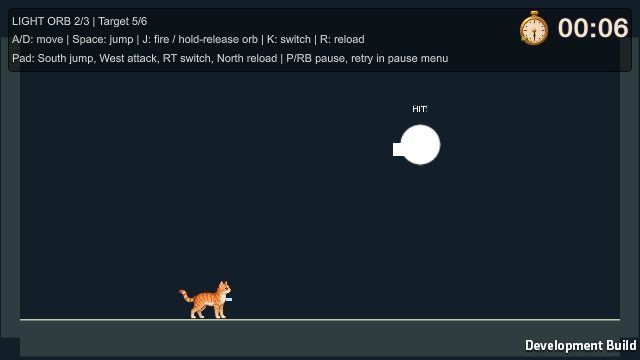
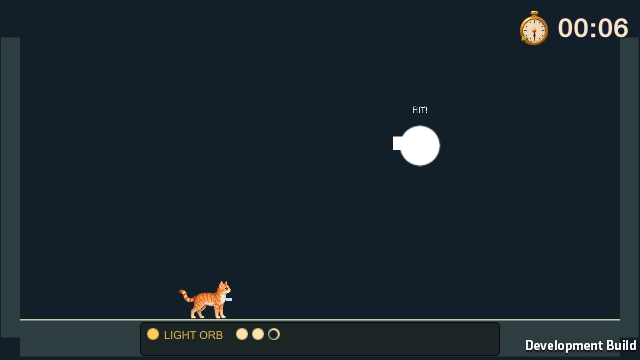
feat: show a compact weapon and reload HUD at bottom center

diff --git a/Assets/Game/Scripts/RangedArena.cs b/Assets/Game/Scripts/RangedArena.cs
@@ -130,14 +130,42 @@ public sealed class RangedArena : MonoBehaviour
     {
         if (!ArenaCamera) return;
         if (labelStyle == null) labelStyle = new GUIStyle(GUI.skin.label) { fontSize = 11, wordWrap = true, margin = new RectOffset(2, 2, 0, 0) };
-        var viewport = ArenaCamera.pixelRect;
-        GUILayout.BeginArea(new Rect(viewport.x + 8, Screen.height - viewport.yMax + 8, Mathf.Max(1, viewport.width - 16), 64), GUI.skin.box);
+        float width = Mathf.Max(1, Mathf.Min(360, Screen.width - 16));
+        GUILayout.BeginArea(new Rect((Screen.width - width) * .5f, Screen.height - 38, width, 34), GUI.skin.box);
         string weapon = Combat.ActiveWeapon == RangedCombat.Weapon.Pulse ? "PULSE" : "LIGHT ORB";
         string status = Combat.Reloading ? " | Reload: " + Mathf.CeilToInt(100 * (1 - Combat.ReloadRemaining / Combat.ReloadDuration)) + "%"
             : Combat.Charging ? " | Charge: " + Mathf.RoundToInt(Combat.Charge * 100) + "%" : "";
-        GUILayout.Label(weapon + " " + Combat.Ammo + "/" + Combat.Capacity + status + " | Target " + Combat.Health + "/6", labelStyle);
-        GUILayout.Label("A/D: move | Space: jump | J: fire / hold-release orb | K: switch | R: reload", labelStyle);
-        GUILayout.Label("Pad: South jump, West attack, RT switch, North reload | P/RB pause, retry in pause menu", labelStyle);
+        GUILayout.BeginHorizontal();
+        Color hudColor = GUI.color;
+        bool orbSelected = Combat.ActiveWeapon == RangedCombat.Weapon.Orb;
+        var icon = GUILayoutUtility.GetRect(18, 20, GUILayout.Width(18), GUILayout.Height(20));
+        GUI.color = orbSelected ? new Color(1, .8f, .35f) : new Color(.7f, .93f, 1);
+        GUI.DrawTexture(orbSelected ? new Rect(icon.x + 3, icon.y + 2, 12, 12)
+            : new Rect(icon.x, icon.y + 6, 18, 5), texture);
+        GUILayout.Label(weapon, labelStyle, GUILayout.Width(70));
+        GUI.color = hudColor;
+        var rounds = GUILayoutUtility.GetRect(Combat.Capacity * 16, 20, GUILayout.Width(Combat.Capacity * 16), GUILayout.Height(20));
+        Color previousColor = GUI.color;
+        for (int i = 0; i < Combat.Capacity; i++) {
+            var dot = new Rect(rounds.x + i * 16, rounds.y + 2, 12, 12);
+            GUI.color = new Color(1, .89f, .65f);
+            GUI.DrawTexture(dot, texture);
+            if (i >= Combat.Ammo) {
+                GUI.color = new Color(.07f, .12f, .16f);
+                GUI.DrawTexture(new Rect(dot.x + 1.5f, dot.y + 1.5f, 9, 9), texture);
+            }
+        }
+        if (Combat.Reloading) {
+            var track = new Rect(rounds.x, rounds.y + 17, Combat.Capacity * 16 - 4, 2);
+            GUI.color = new Color(.35f, .43f, .49f);
+            GUI.DrawTexture(track, Texture2D.whiteTexture);
+            GUI.color = new Color(1, .89f, .65f);
+            track.width *= Mathf.Clamp01(1 - Combat.ReloadRemaining / Combat.ReloadDuration);
+            GUI.DrawTexture(track, Texture2D.whiteTexture);
+        }
+        GUI.color = previousColor;
+        GUILayout.Label(status, labelStyle);
+        GUILayout.EndHorizontal();
         GUILayout.EndArea();
     }
     void OnDisable() => Combat.CancelTransient();

diff --git a/docs/design/ranged-prototype/README.md b/docs/design/ranged-prototype/README.md
@@ -18,12 +18,15 @@ weapon, K switches and R reloads early. Pulse: 8 rounds, 0.2-second recovery,
 
 The scripted demonstration forwards the shared attack actions and movement/jump
 signals to the actual runtime components. It shows a grounded charged orb hitting
-an elevated target, target health changing from 6 to 5, movement, jumps, facing
+an elevated target, a visible hit flash, movement, jumps, facing
 changes, direct shots, early reload, switching during reload and automatic
 reload after the pulse magazine is emptied. It is not a human usability test.
 The recorder is compiled only into preview builds. No target damage is injected.
 
-The charge readout and target state remain visible at the compact size. Round
+The bottom-center HUD uses filled/hollow round ammunition markers, a reload bar,
+charge/reload percentage and a distinct pulse/orb icon with the selected weapon
+name. The upper debug/control panel is removed. The indicator remains readable
+at the compact size. Round
 orbs and narrow pulses remain distinct in grayscale; closed protection also has
 a square silhouette and SHIELDED label. Landing edges and Mika remain unobscured.
 Both actual-player logs contain no exceptions or error entries. The preview's

diff --git a/docs/design/ranged-prototype.md b/docs/design/ranged-prototype.md
@@ -46,7 +46,13 @@ There are no enemy attacks, contact damage, campaign changes or boss artwork.
 Shots use relative swept collision against the moving target and disappear on
 hit, floor/wall/ceiling contact, or after 3 seconds. At most eight are active.
 Pulse and orb differ by silhouette as well as color. The muzzle indicator and
-visible growing orb show facing and charge; the small lab HUD gives controls.
+visible growing orb show facing and charge. The compact HUD sits at the bottom
+center, without the former upper controls/debug panel.
+Magazine ammunition uses one filled or hollow circle per round (eight for pulse,
+three for orb). Empty circles fill only when reload completes; the active weapon
+and charge/reload percentage remain beside them. A narrow progress bar fills
+beneath the dots during reload. A cool narrow pulse icon and warm round orb icon
+identify the selected weapon by shape and color alongside its name.
 
 Pause freezes charge, flight, target, recovery and reload. Releasing the charge while
 paused cancels it without firing. Retry/restart restore the encounter, charge,

diff --git a/ASSETS.md b/ASSETS.md
@@ -863,3 +863,11 @@ Ranged lab update (2026-11-15): the user selected a shared attack button, weapon
 switching, independent magazines and active-weapon-only reload. The original
 procedural presentation now labels the selected weapon, remaining rounds, charge
 and reload percentage; no additional external or generated artwork was used.
+
+The user requested filled/hollow ammunition dots on 2026-11-15. The HUD reuses
+the original procedural disc texture to draw cream circles with dark centers
+for spent rounds; no additional artwork or external asset was introduced.
+The follow-up HUD adds a reload progress bar and reuses the pulse/orb silhouettes
+as selected-weapon icons, alongside their English names.
+The compact weapon/ammo/reload HUD is anchored at bottom center at the user's
+request; the former upper control/debug panel is removed.
